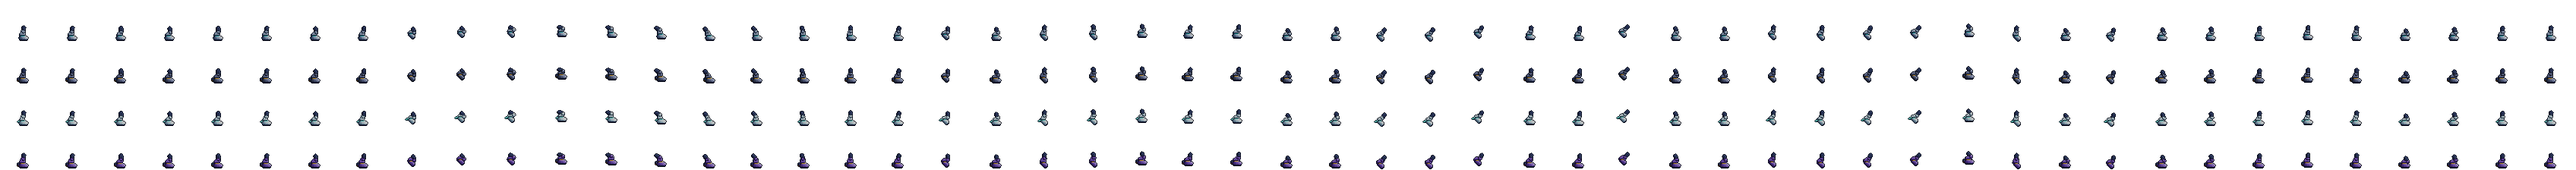
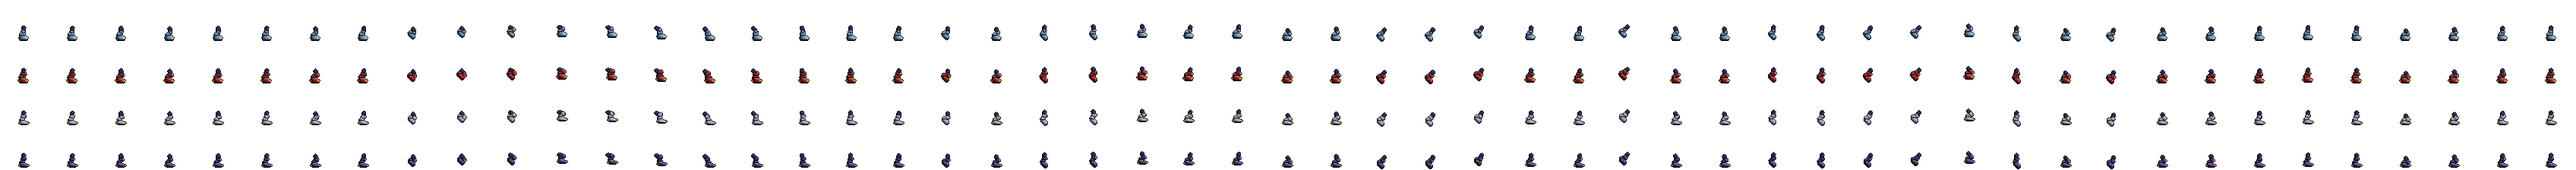
10단계: 아머 디자인 개편(부위별 실루엣, 뱅가드 진홍 격투형·에어로 흰 기사형)
- 아머마다 헬멧·가슴·어깨·팔·부츠 그리드를 따로 두고 슬롯별 SHAPE로 배치(색만 바꾸던 방식 대체)
- 뱅가드: 금색 큰 뿔의 닫힌 헬멧과 초록 눈, 금색 V 가슴, 이중 금테 어깨, 앞팔의 거대한 은색 발톱
  (손목 발광 링, 사격 때 발톱을 펼친 손바닥 발광부), 무릎 가드, 블록형 부츠, 자홍 에너지
- 에어로: 금테 얼굴판의 기사 투구와 뒤로 뻗은 금색 핀, 금색 V 가슴, 층진 어깨와 금색 손목 가드,
  세 갈래 파란 에너지 날개, 창 모양 버스터, 뾰족한 부츠
- 얼티밋: 흑자색·금, 기사 투구 + 격투형 뿔, 격투형 가슴·발톱, 금색 날개, 기사형 부츠
- HUD·캡슐·아머 랩 색: 뱅가드 진홍, 에어로 파랑. 쓰지 않는 옛 덧붙임 그리드 정리, README

diff --git a/game/README.md b/game/README.md
@@ -66,7 +66,7 @@ ad-hoc 서명이라 빌드한 맥에서는 바로 열리지만, 다른 맥에서
 
 | 캐릭터 | 역할 | 조작 |
 |---|---|---|
-| **IX** | 버스터·아머·특수무기 | 3단 차지, 아머 8파츠, 보스 무기 6종(Q/E) |
+| **IX** | 흰 프레임·청록 코어. 앞이 솟은 헬멧 아래로 얼굴과 두 눈이 보이고, 금색 이마띠가 앞으로 뾰족하게 나옴. 청록 칼라·벨트·부츠 발목 칼라, 손목으로 넓어지는 건틀릿과 무릎까지 오는 부츠. **아머는 부위마다 실루엣을 통째로 바꿈**(섞어 입어도 어느 부위가 어떤 아머인지 보임) — 뱅가드(진홍 격투형: 금색 큰 뿔이 뒤로 휜 닫힌 헬멧과 초록 눈, 금색 V 테두리 가슴, 이중 금테 어깨, 앞팔의 거대한 은색 발톱(쏠 때는 손바닥 발광부), 블록형 부츠와 무릎 가드), 에어로(흰 기사형: 금테 얼굴판과 초록 눈의 기사 투구, 뒤로 뻗은 금색 핀, 금색 V 가슴, 층진 어깨, 파란 에너지 날개, 창 모양 버스터, 뾰족한 부츠), 얼티밋(흑자색·금: 기사 투구에 격투형 뿔, 격투형 가슴·발톱, 금색 에너지 날개, 기사형 부츠) |
 | **SABLE** | 세이버 | 지상 3연격, 공중 베기, 대시 찌르기, 벽 베기, 패링(V)→반격. 적 탄도 베어 없앨 수 있음. 검술 Q/E: 섬광류(빠름·공중 2회) / 파쇄류(강함·3타가 균열벽 파괴) / 반격류(패링 시간 2배·반격 강화) |
 | **ECHO** | 연사·복제 | 8방향 연사(↑↓ 조준), 공중 점프 유지로 호버, V 복제탄 → 처치한 적 데이터로 변신(V): 워커→소형체(1칸 통로 통과), 터렛→3갈래 연사 |
 
@@ -341,6 +341,14 @@ godot --path game -- --gallery=/tmp/rp_gallery
 - [x] **얼굴이 보이는 헬멧**: IX·SABLE·ECHO의 헬멧을 다시 그려 얼굴과 눈이 보이게 했습니다(IX는 앞이 솟은 헬멧과 금색 이마띠, SABLE은 챙과 아래 얼굴 마스크, ECHO는 이마에 올린 고글). HUD 얼굴 배지도 새 머리에 맞춰 자릅니다.
 - [x] **실루엣**: 손목으로 넓어지는 건틀릿, 무릎까지 오는 부츠, 넓은 가슴판, 조금 더 벌린 대기 자세. 팔다리에 흩어지던 장식 띠를 걷어 내고 칼라·벨트·부츠 발목 칼라로 색을 모았습니다.
 - [x] **뱅가드 아머 색**: 파랑·진홍 → 건메탈·금(HUD·캡슐·아머 랩 색 포함). 얼굴이 보이게 되면서 파란 아머가 원작 주인공과 겹쳐 보이지 않게 바꿨습니다.
+
+## 로드맵 10단계 (아머 디자인 개편)
+
+- [x] **부위별 실루엣**: 전에는 같은 몸에 색과 작은 조각만 바꿨는데, 이제 아머마다 헬멧·가슴·어깨·팔·부츠의 모양 자체가 다릅니다(`tools/sprites/ix_kit.gd`의 `*_KNIGHT` / `*_BRAWLER` 그리드, `ix_model.gd`의 슬롯별 `SHAPE`).
+- [x] **뱅가드 = 진홍 격투형**: 금색 큰 뿔의 닫힌 헬멧과 초록 눈, 앞팔의 거대한 은색 발톱(손목 발광 링, 쏠 때는 발톱을 펼친 손바닥 발광부), 이중 금테 어깨, 무릎 가드, 블록형 부츠. 에너지 색은 자홍.
+- [x] **에어로 = 흰 기사형**: 금테 얼굴판의 기사 투구와 뒤로 뻗은 금색 핀, 금색 V 가슴과 파란 코어, 층진 어깨와 금색 손목 가드, 세 갈래 파란 에너지 날개, 창 모양 버스터, 뾰족한 부츠.
+- [x] **얼티밋 = 흑자색·금**: 기사 투구에 격투형 뿔, 격투형 가슴·발톱, 금색 에너지 날개, 기사형 부츠.
+- [x] HUD·캡슐·아머 랩의 아머 색: 뱅가드 진홍, 에어로 파랑.
 
 아직 없는 것: 실제 플레이로 맞춘 난이도·손맛 조정, 손으로 다듬은 픽셀 아트(손 보정 레이어로 받을 준비는 됨), 서명·공증된 배포용 앱.
 
